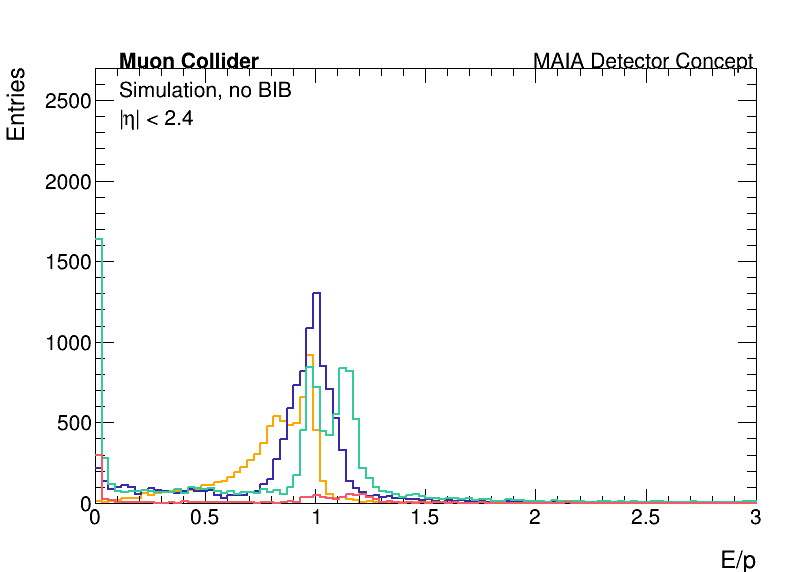
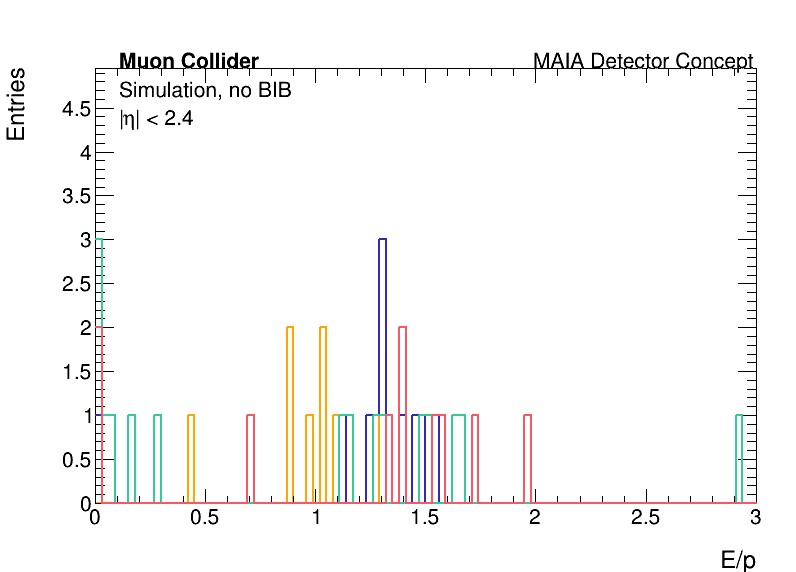
?

diff --git a/pfoReco2.py b/pfoReco2.py
@@ -4,15 +4,16 @@ import glob
 import pyLCIO
 from pyLCIO import IOIMPL
 
-# === ensure we save into this repo's ./plots exactly like your working script ===
-SCRIPT_DIR = os.path.dirname(os.path.abspath(__file__))
-os.chdir(SCRIPT_DIR)
-os.makedirs("plots", exist_ok=True)
-
 exec(open("./plotHelper.py").read())
 ROOT.gROOT.SetBatch()
 
-max_events = -1
+# Make sure plots folder exists
+os.makedirs("plots", exist_ok=True)
+
+# Use the correct solenoid field for MAIA
+B_FIELD = 3.57  # Tesla
+
+max_events = 10
 
 samples = glob.glob("/data/fmeloni/DataMuC_MAIA_v0/v5/reco/electronGun*")
 
@@ -33,7 +34,7 @@ hists = {}
 hists2d = {}  # <-- 2D hist container
 for s in files:
     hists[s] = {}
-    hists2d[s] = {}  # initialize dict for 2D hists if you add them later
+    hists2d[s] = {}
     for obj in ["pfo","pfo_e","pfo_e_match", "mcp", "mcp_e", "trk", "trk_e", "trk_e_match", "clusters", "clusters_e_match"]:
         for vtype in ["obj", "evt"]:
             for var in variables[vtype]:
@@ -41,7 +42,6 @@ for s in files:
                                                 variables[vtype][var]["nbins"], 
                                                 variables[vtype][var]["xmin"], 
                                                 variables[vtype][var]["xmax"])
-    
     # E/p ratio hists for electrons
     hists[s]["pfo_e_match_obj_ep_ratio"] = ROOT.TH1F(s+"_pfo_e_match_obj_ep_ratio", s, 100, 0, 3)
     hists[s]["clusters_e_match_obj_ep_ratio"] = ROOT.TH1F(s+"_clusters_e_match_obj_ep_ratio", s, 100, 0, 3)
@@ -49,19 +49,15 @@ for s in files:
 def find_closest_track(cluster_tlv, track_list, dR_cut=0.1):
     if cluster_tlv.E() <= 0:
         return None
-    
     closest_track = None
     min_dR = float('inf')
-    
     for track_tlv in track_list:
         if track_tlv.E() <= 0:
             continue
-        
         dR = cluster_tlv.DeltaR(track_tlv)
         if dR < dR_cut and dR < min_dR:
             min_dR = dR
             closest_track = track_tlv
-    
     return closest_track
 
 reader = pyLCIO.IOIMPL.LCFactory.getInstance().createLCReader()
@@ -70,84 +66,64 @@ reader.setReadCollectionNames(["MCParticle","SiTracks", "AllTracks", "PandoraPFO
 for s in files:
     print(f"Working on sample {s}")
     i = 0
-    
     for f in files[s]:
         if max_events > 0 and i >= max_events: 
             break
-            
         reader.open(f)
-        
         for event in reader:
             if max_events > 0 and i >= max_events: 
                 break
             if i%100 == 0: 
                 print(f"\tProcessing event: {i}")
-            
             try:
                 mcps = event.getCollection("MCParticle")
             except:
                 mcps = []
                 print("No MCP")
-            
             try:
                 clusters = event.getCollection("PandoraClusters")
                 tracks = event.getCollection("SiTracks")
             except:
                 i += 1
                 continue
-            
-            # Convert to TLorentzVectors
+
             cluster_tlvs = []
             track_tlvs = []
-            
             for cluster in clusters:
                 cluster_tlv = getClusterTLV(cluster)
                 if cluster_tlv.E() < 10: 
                     continue
                 cluster_tlvs.append(cluster_tlv)
-            
             for track in tracks:
-                # electron mass for TLV
-                track_tlv = getTrackTLV(track, m=0.000511)
+                track_tlv = getTrackTLV(track, m=0.000511, b_field=B_FIELD)  # <-- updated
                 if track_tlv.E() < 10: 
                     continue
                 track_tlvs.append(track_tlv)
-            
-            # Print first 100 events
+
             if i < 100:
                 print(f"\n--- {s} Event {i} ---")
-                print(f"Clusters ({len(cluster_tlvs)} total):")
                 for j, cluster_tlv in enumerate(cluster_tlvs):
                     print(f"  Cluster {j}: E = {cluster_tlv.E():.2f} GeV")
-                print(f"Tracks ({len(track_tlvs)} total):")
                 for j, track_tlv in enumerate(track_tlvs):
                     print(f"  Track {j}: p = {track_tlv.P():.2f} GeV")
-            
-            # Process each cluster for E/p
+
             for cluster_tlv in cluster_tlvs:
                 closest_track = find_closest_track(cluster_tlv, track_tlvs)
                 if closest_track is None:
                     continue
-                
                 match_counts[s] += 1
-                
                 E = cluster_tlv.E()
                 p = closest_track.P()
                 if p <= 0: 
                     continue
                 ep_ratio = E / p
-                
-                # fill electron hists
                 fillObjHists(hists[s], "pfo_e_match", closest_track)
                 fillObjHists(hists[s], "clusters_e_match", cluster_tlv)
                 hists[s]["pfo_e_match_obj_ep_ratio"].Fill(ep_ratio)
                 hists[s]["clusters_e_match_obj_ep_ratio"].Fill(ep_ratio)
-                
                 if i < 10:
                     print(f"{s}: E={E:.1f} GeV, p={p:.1f} GeV, E/p={ep_ratio:.3f}")
-            
             i += 1
-        
         reader.close()
 
 print(f"Total matches: {sum(match_counts.values())}")
@@ -166,11 +142,10 @@ for sample_name in files:
     if "pfo_e_match_obj_ep_ratio" in hists[sample_name] and hists[sample_name]["pfo_e_match_obj_ep_ratio"].GetEntries() > 0:
         ep_hists[sample_name] = hists[sample_name]["pfo_e_match_obj_ep_ratio"]
 
-
-plotHistograms(ep_hists, "plots/electron_ep_ratio_comparison.png", 
-               xlabel="E/p", ylabel="Entries",
-               atltext=["Muon Collider", "Simulation, no BIB", "|#eta| < 2.4", "MAIA Detector Concept"])
-
+if ep_hists:
+    plotHistograms(ep_hists, "plots/electron_ep_ratio_comparison.png", 
+                  xlabel="E/p", ylabel="Entries",
+                  atltext=["Muon Collider", "Simulation, no BIB", "|#eta| < 2.4", "MAIA Detector Concept"])
 
 # Plot variables
 for var in ["pt", "eta", "phi", "E"]:
@@ -201,10 +176,8 @@ if cluster_ep_hists:
 for sample_name in files:
     if sample_name not in hists or match_counts[sample_name] == 0:
         continue
-        
     print(f"\n{sample_name}:")
     print(f"  Total matches: {match_counts[sample_name]}")
-    
     ep_hist = hists[sample_name]["pfo_e_match_obj_ep_ratio"]
     if ep_hist.GetEntries() > 0:
         total_entries = ep_hist.GetEntries()
@@ -213,11 +186,10 @@ for sample_name in files:
             bin_center = ep_hist.GetBinCenter(i)
             if 0.8 <= bin_center <= 1.2:
                 near_one += ep_hist.GetBinContent(i)
-        
         percent_near_one = (near_one / total_entries) * 100 if total_entries > 0 else 0
         print(f"  E/p entries with 0.8 < E/p < 1.2: {percent_near_one:.1f}%")
 
-# --- New block: save all 2D histograms if present ---
+# --- Save all 2D histograms if present ---
 for s in hists2d:
     for h in hists2d[s]:
         c = ROOT.TCanvas("c", "c", 800, 600)
